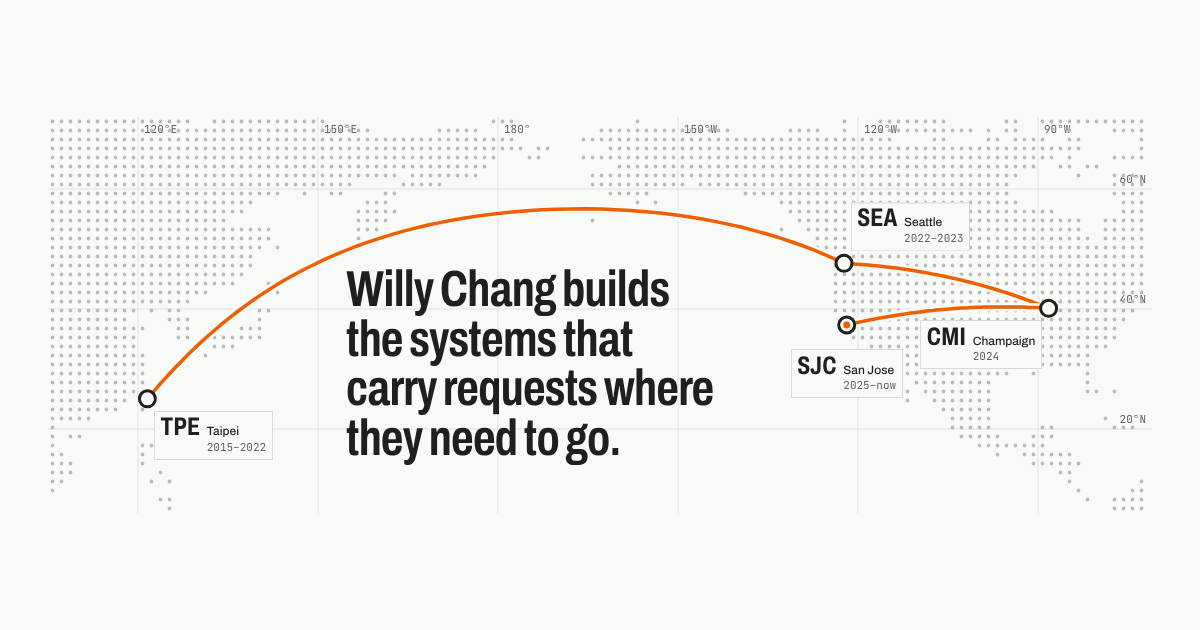
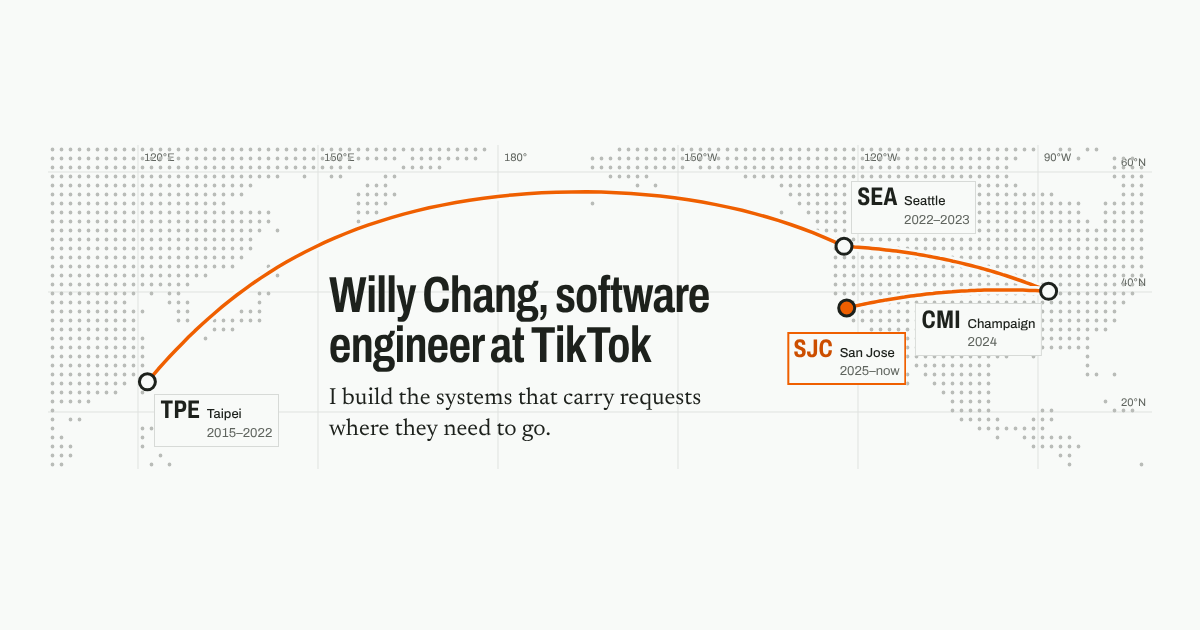
content: the h1 says who Willy is; the statement becomes the line under it
The h1 was the statement, a 13-word figure of speech that fits any backend
engineer. It now names the person and the category in six words, "Willy
Chang, software engineer at TikTok", and the statement follows as the page's
one figure of speech: "I build the systems that carry requests where they
need to go." Both sit in the open Pacific under the arc, clear of the route
and the station labels at every desktop width.

The introduction no longer opens with "Software engineer at TikTok", which
the h1 above it has just said; it starts with the work.

The social card is rendered again from the new opening and the shorter
plate (the render script now leaves the stop panel out, as its comment
always said), and its alt text describes what it shows. The page title and
the h1 are tested to name the same role.

Claude-Session: https://claude.ai/code/session_013CV7e6RgvoKzxzTxgTamsk

diff --git a/e2e/site.spec.ts b/e2e/site.spec.ts
@@ -36,7 +36,7 @@ test.describe('layout', () => {
 		});
 	}
 
-	test('the opening statement stays clear of the route, its stations and labels', async ({ page }) => {
+	test('the opening words stay clear of the route, its stations and labels', async ({ page }) => {
 		await page.emulateMedia({ reducedMotion: 'reduce' });
 		for (const width of [1024, 1180, 1280, 1440, 1920]) {
 			await page.setViewportSize({ width, height: 900 });
@@ -44,7 +44,7 @@ test.describe('layout', () => {
 			await page.evaluate(() => document.fonts.ready);
 			const clash = await page.evaluate(() => {
 				const range = document.createRange();
-				range.selectNodeContents(document.getElementById('statement')!);
+				range.selectNodeContents(document.getElementById('opening-words')!);
 				const lines = [...range.getClientRects()];
 				const inLine = (x: number, y: number) => lines.some((r) => x >= r.left && x <= r.right && y >= r.top && y <= r.bottom);
 				const svg = document.querySelector<SVGSVGElement>('#top svg')!;
@@ -61,7 +61,7 @@ test.describe('layout', () => {
 				const hits = boxes.filter((b) => lines.some((r) => !(b.right <= r.left || b.left >= r.right || b.bottom <= r.top || b.top >= r.bottom)));
 				return hits.length ? 'station' : null;
 			});
-			expect(clash, `statement overlaps the ${clash} at ${width}px`).toBeNull();
+			expect(clash, `the opening words overlap the ${clash} at ${width}px`).toBeNull();
 		}
 	});
 
@@ -73,7 +73,7 @@ test.describe('layout', () => {
 			await page.setViewportSize({ width, height });
 			await page.goto('/');
 			await page.evaluate(() => document.fonts.ready);
-			const lede = page.locator('#top').getByText(/^Software engineer at TikTok/);
+			const lede = page.locator('#top').getByText(/^I designed and built AOP/);
 			const box = (await lede.boundingBox())!;
 			const line = await lede.evaluate((e) => parseFloat(getComputedStyle(e).lineHeight));
 			const needed = whole ? box.height : line * 3;
@@ -96,7 +96,7 @@ test.describe('layout', () => {
 		}
 	});
 
-	test('type steps down from the statement to section titles to names, and stops at 13px', async ({ page }) => {
+	test('type steps down from the h1 to section titles to names, and stops at 13px', async ({ page }) => {
 		for (const width of widths) {
 			await page.setViewportSize({ width, height: 900 });
 			await page.goto('/');

diff --git a/src/content/profile.ts b/src/content/profile.ts
@@ -2,6 +2,8 @@ import type { Station } from './types';
 
 export const profile = {
 	name: 'Willy Chang',
+	/** What Willy is. The page's h1 reads "<name>, <role> at <employer>". */
+	role: 'software engineer',
 	employer: 'TikTok',
 	base: 'San Jose, California',
 	email: 'willysde2025@gmail.com',
@@ -9,9 +11,10 @@ export const profile = {
 	/** The résumé itself, in public/. `filename` is the name it is saved under. */
 	resume: { href: '/resume.pdf', filename: 'Willy-Chang-Resume.pdf' },
 	avatar: { src: '/avatar.jpg', alt: 'Illustrated portrait of Willy in glasses and a black sweater, on a pier with a city skyline behind.' },
-	/** The opening statement, read after the name: "Willy Chang builds…". */
-	statement: 'builds the systems that carry requests where they need to go.',
-	lede: 'Software engineer at TikTok. I designed and built AOP, an LLM agent platform in Go that resolves over 90% of TikTok’s privacy requests automatically. I work on agent design, evaluation, reliability and distributed systems. Before TikTok, I built full-stack products for music co-creation and classroom attendance.'
+	/** The page's one figure of speech, set under the h1. The h1 itself says plainly who Willy is. */
+	statement: 'I build the systems that carry requests where they need to go.',
+	/** Starts with the work: the h1 above it has already said "software engineer at TikTok". */
+	lede: 'I designed and built AOP, an LLM agent platform in Go that resolves over 90% of TikTok’s privacy requests automatically. I work on agent design, evaluation, reliability and distributed systems. Before TikTok, I built full-stack products for music co-creation and classroom attendance.'
 } as const;
 
 /** The places on the route, in the order they were lived in. */

diff --git a/src/sections/Opening.module.css b/src/sections/Opening.module.css
@@ -8,12 +8,22 @@
 	position: relative;
 }
 
-.statement {
-	max-width: 16ch;
+.words {
 	margin-bottom: var(--space-6);
+}
+
+.title {
+	max-width: 12em;
 	font-size: var(--text-display);
 	line-height: 0.98;
 	letter-spacing: -0.015em;
+}
+
+.statement {
+	margin-top: var(--space-3);
+	max-width: 32ch;
+	font-size: var(--text-lede);
+	line-height: 1.35;
 }
 
 .dek {
@@ -92,19 +102,28 @@
 		padding-top: var(--space-5);
 	}
 
-	/* Proportional to the plate (its width is 100cqi, its height 29.3cqi), so the
-	   statement keeps its place in the ocean, under the Taipei–Seattle arc and clear of
-	   the SJC label, at every desktop width. It starts on the page's fourth column line,
-	   where the stop's records under the plate start too. */
-	.statement {
+	/* Proportional to the plate (its width is 100cqi, its height 29.3cqi), so the words
+	   keep their place in the ocean, under the Taipei–Seattle arc and clear of the SJC
+	   label, at every desktop width. They start on the page's fourth column line, where
+	   the stop's records under the plate start too. */
+	.words {
 		position: absolute;
 		z-index: 1;
 		left: calc(25cqi + var(--column-gap) / 4);
-		top: 10.1cqi;
+		top: 11.4cqi;
 		width: 39cqi;
-		max-width: none;
 		margin: 0;
+	}
+
+	.title {
+		max-width: none;
 		font-size: 4.6cqi;
+	}
+
+	/* Narrower than the h1, so its first line ends well short of the SJC label. */
+	.statement {
+		margin-top: 1.1cqi;
+		max-width: 34cqi;
 	}
 
 	/* Half the page for the introduction, so it reads in four lines and stays on the

diff --git a/index.html b/index.html
@@ -13,7 +13,7 @@
 		<link rel="canonical" href="https://willychang21.github.io/" />
 		<link rel="icon" href="/favicon.svg" type="image/svg+xml" />
 		<link rel="apple-touch-icon" href="/apple-touch-icon.png" />
-		<!-- The display face sets the opening statement; fetch it with the HTML. -->
+		<!-- The display face sets the page's h1; fetch it with the HTML. -->
 		<link
 			rel="preload"
 			href="/node_modules/@fontsource-variable/archivo/files/archivo-latin-wdth-normal.woff2"
@@ -36,7 +36,7 @@
 		<meta property="og:image" content="https://willychang21.github.io/og.png" />
 		<meta property="og:image:width" content="1200" />
 		<meta property="og:image:height" content="630" />
-		<meta property="og:image:alt" content="Willy Chang builds the systems that carry requests where they need to go: a map of the route from Taipei to Seattle, Champaign and San Jose." />
+		<meta property="og:image:alt" content="Willy Chang, software engineer at TikTok. I build the systems that carry requests where they need to go: a map of the route from Taipei to Seattle, Champaign and San Jose." />
 		<meta property="profile:first_name" content="Willy" />
 		<meta property="profile:last_name" content="Chang" />
 		<meta name="twitter:card" content="summary_large_image" />

diff --git a/src/sections/Opening.tsx b/src/sections/Opening.tsx
@@ -5,13 +5,17 @@ import { RoutePlate } from './RoutePlate';
 
 export function Opening() {
 	return (
-		<section id="top" className={styles.opening} aria-labelledby="statement">
+		<section id="top" className={styles.opening} aria-labelledby="opening-title">
 			<div className="container">
 				<div className={styles.stage}>
-					{/* On wide screens the statement sits in the open Pacific under the route. */}
-					<h1 id="statement" className={styles.statement}>
-						{profile.name} {profile.statement}
-					</h1>
+					{/* The h1 names who Willy is; the statement under it is the page's one figure of
+					    speech. On wide screens both sit in the open Pacific under the route. */}
+					<div id="opening-words" className={styles.words}>
+						<h1 id="opening-title" className={styles.title}>
+							{profile.name}, {profile.role} at {profile.employer}
+						</h1>
+						<p className={styles.statement}>{profile.statement}</p>
+					</div>
 					<RoutePlate />
 				</div>
 

diff --git a/src/App.test.tsx b/src/App.test.tsx
@@ -4,9 +4,14 @@ import { App } from './App';
 import { sections } from './content/navigation';
 
 describe('App', () => {
-	it('opens on a statement that names Willy', () => {
+	it('opens on a heading that says who Willy is, with the statement under it', () => {
 		render(<App />);
-		expect(screen.getByRole('heading', { level: 1 })).toHaveTextContent(/^Willy Chang builds the systems/);
+		const h1 = screen.getByRole('heading', { level: 1 });
+		expect(h1).toHaveTextContent('Willy Chang, software engineer at TikTok');
+		// 2 to 8 words: a name and a category, read at a glance.
+		expect(h1.textContent!.trim().split(/\s+/).length).toBeLessThanOrEqual(8);
+		expect(screen.getByText('I build the systems that carry requests where they need to go.')).toBeInTheDocument();
+		expect(screen.getByRole('region', { name: 'Willy Chang, software engineer at TikTok' })).toBeInTheDocument();
 	});
 
 	it('links every navigation item to a section that exists', () => {

diff --git a/src/content/metadata.test.ts b/src/content/metadata.test.ts
@@ -25,9 +25,14 @@ describe('index.html metadata', () => {
 		expect(ld.sameAs).toContain(profile.github.url);
 	});
 
-	it('describes the social card as it is drawn: the statement and every stop on the route', () => {
+	it('describes the social card as it is drawn: who Willy is, the statement and every stop on the route', () => {
 		const alt = meta('property', 'og:image:alt')!;
-		expect(alt.startsWith(`${profile.name} ${profile.statement.replace(/\.$/, '')}`)).toBe(true);
+		expect(alt.startsWith(`${profile.name}, ${profile.role} at ${profile.employer}. `)).toBe(true);
+		expect(alt).toContain(profile.statement.replace(/\.$/, ''));
 		for (const { city } of Object.values(stations)) expect(alt).toContain(city);
+	});
+
+	it('names the same role in the page title and the h1', () => {
+		expect(site.title).toBe(`${profile.name}, ${profile.role}`);
 	});
 });

diff --git a/src/styles/tokens.css b/src/styles/tokens.css
@@ -62,9 +62,9 @@
 	--stretch-ui: 100%;
 
 	/* One scale. Nothing is set below --text-xs, and each level stands about a third
-	   above the next: the statement, then section titles, then the names of things. The
-	   statement leaves this scale on wide screens, where it is sized to the plate, and
-	   stays the largest heading there too. */
+	   above the next: the h1, then section titles, then the names of things. The h1
+	   leaves this scale on wide screens, where it is sized to the plate, and stays the
+	   largest heading there too. */
 	--text-xs: 0.8125rem;
 	--text-sm: 0.875rem;
 	--text-md: 1.0625rem;

diff --git a/src/styles/print.css b/src/styles/print.css
@@ -70,11 +70,14 @@
 		display: none;
 	}
 
-	#statement {
+	#opening-words {
 		position: static !important;
 		width: auto !important;
-		max-width: none !important;
 		margin-bottom: 0.5rem !important;
+	}
+
+	#opening-title {
+		max-width: none !important;
 		font-size: 1.5rem !important;
 	}
 

diff --git a/README.md b/README.md
@@ -6,11 +6,11 @@ Willy Chang's portfolio, published at <https://willychang21.github.io>.
 
 Willy's work keeps coming back to routing: data-privacy requests across jurisdictions, an orchestrator that picks critical nodes, maps with routing, AR navigation. The site is set as a technical atlas on that idea.
 
-- **The route plate.** The page opens on a map of the real route, Taipei → Seattle → Champaign → San Jose, drawn along great circles. The opening statement sits in the open Pacific under the arc. The plate is cut close to the route (`LAT_TOP` and `LAT_BOTTOM` in `scripts/generate-route-map.mjs`), so the introduction under it stays on the first screen of a laptop.
+- **The route plate.** The page opens on a map of the real route, Taipei → Seattle → Champaign → San Jose, drawn along great circles. The h1 says who Willy is, and the opening statement under it is the page's one figure of speech; both sit in the open Pacific under the arc. The plate is cut close to the route (`LAT_TOP` and `LAT_BOTTOM` in `scripts/generate-route-map.mjs`), so the introduction under it stays on the first screen of a laptop.
 - **The stations are the way in.** Each station on the map is a tab. Choosing one lists the roles, degrees and projects recorded there, and the route beyond it turns grey, so the map reads as the journey up to that point. San Jose, now, is chosen first. The lists come from each record's own `station` field (`src/content/route.ts`), so a new role or project joins its stop by itself. Station codes in the experience record and in project details link back to their stop.
 - **Transit diagrams.** Each project's stated architecture is drawn in the same language: octilinear lines, station markers, and orange for the part Willy built or changed.
 - **One signal colour.** Radix orange is used only for the route and for whatever is current. The neutrals are Radix olive.
-- **Two type families, one scale.** Archivo for display (condensed) and interface text, with tabular figures for coordinates and dates; Newsreader for reading. The statement is the largest heading, section titles come next and the names of things after them (`src/styles/tokens.css`). Nothing is set below 13px.
+- **Two type families, one scale.** Archivo for display (condensed) and interface text, with tabular figures for coordinates and dates; Newsreader for reading. The h1 is the largest heading, section titles come next and the names of things after them (`src/styles/tokens.css`). Nothing is set below 13px.
 
 ## Stack
 
